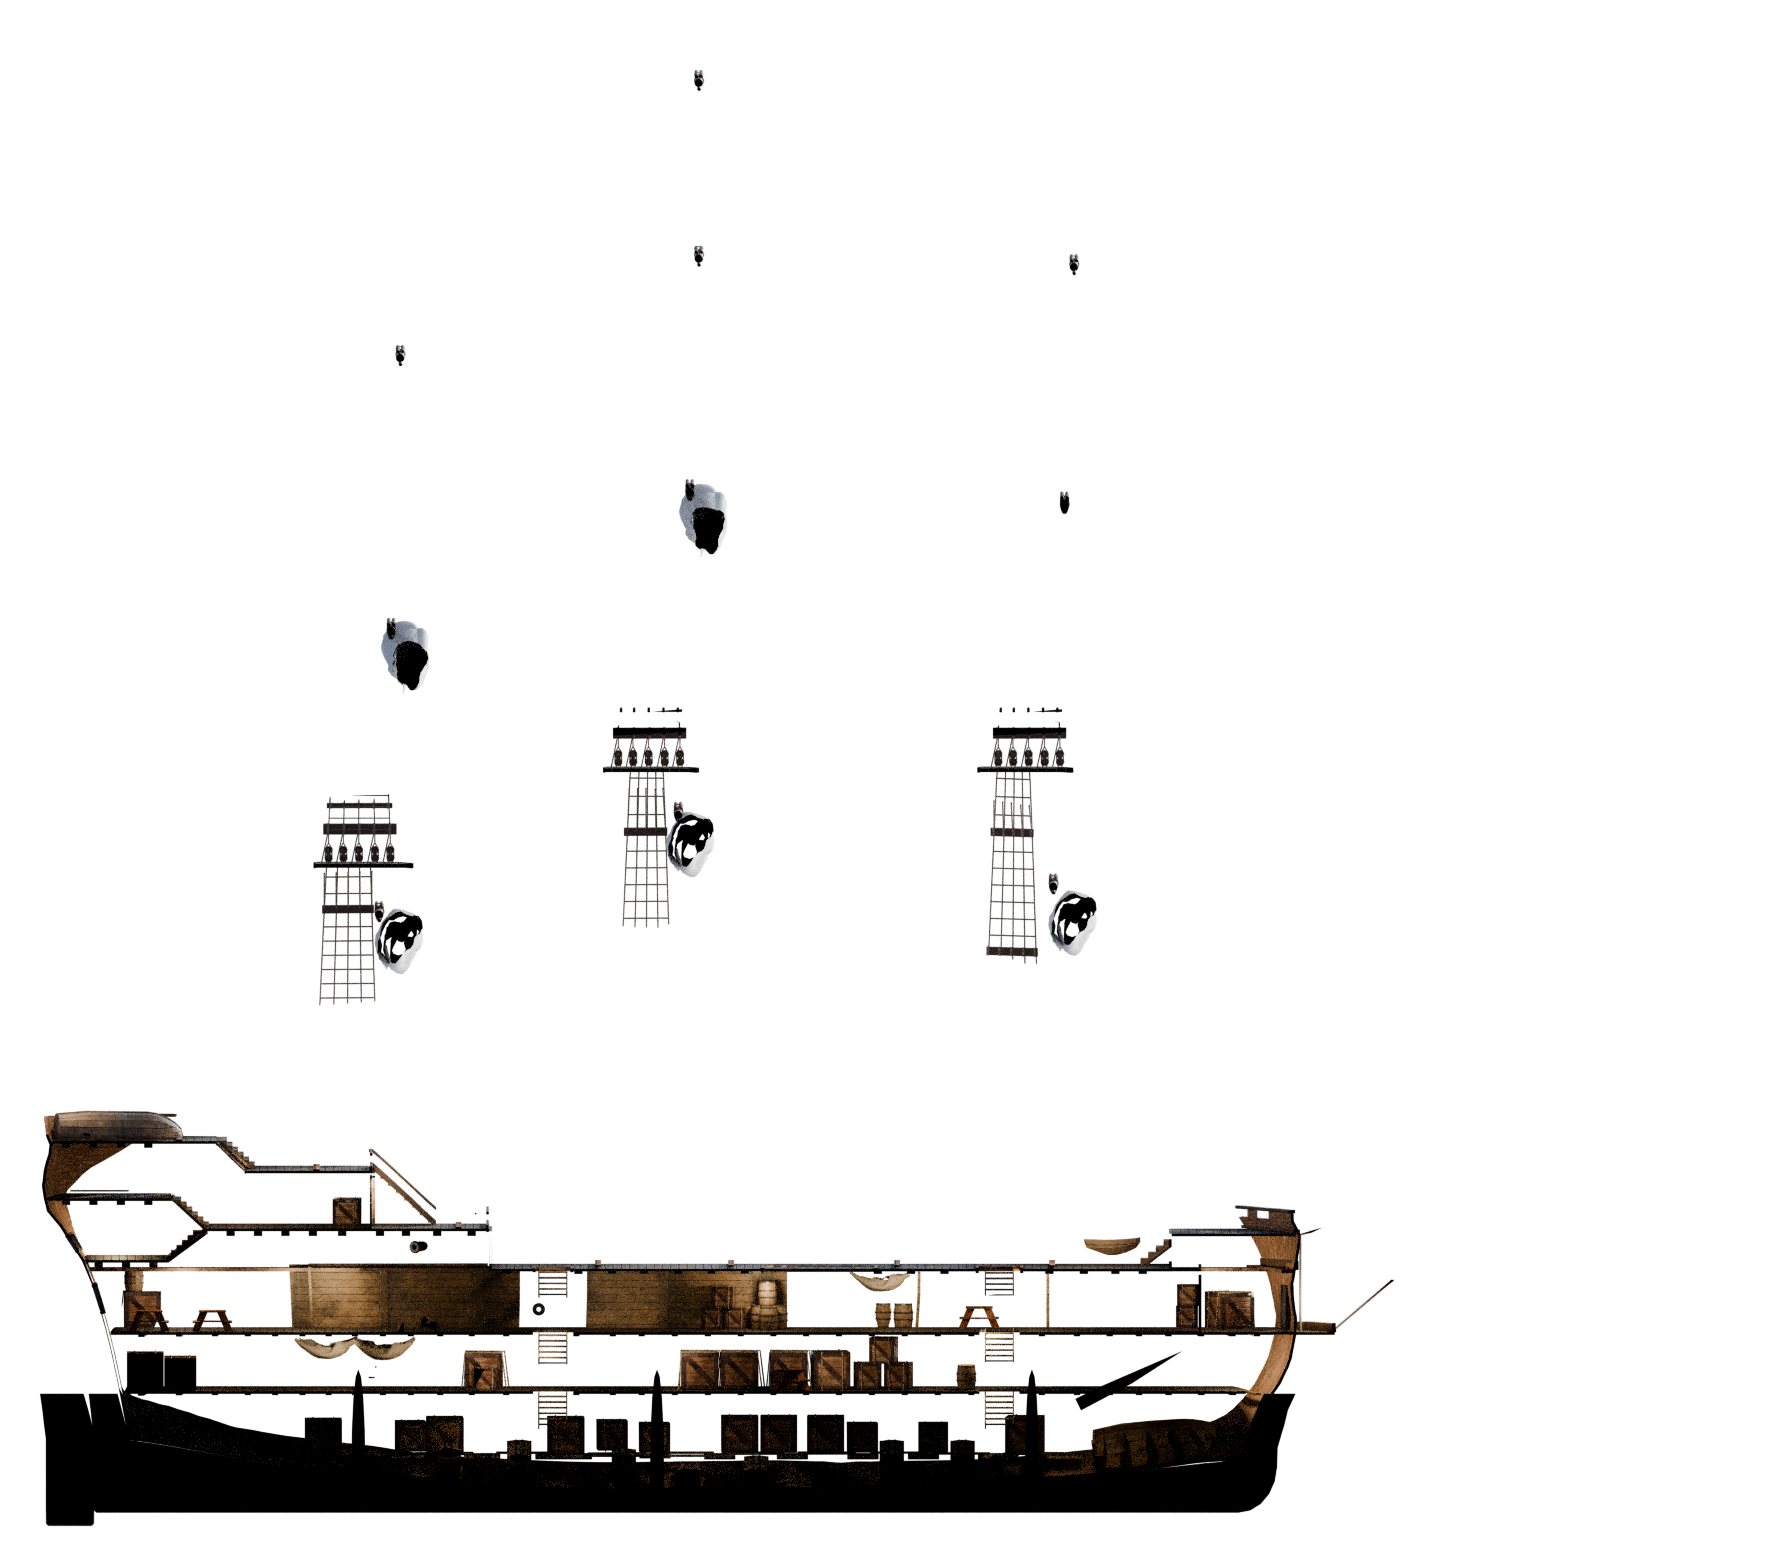
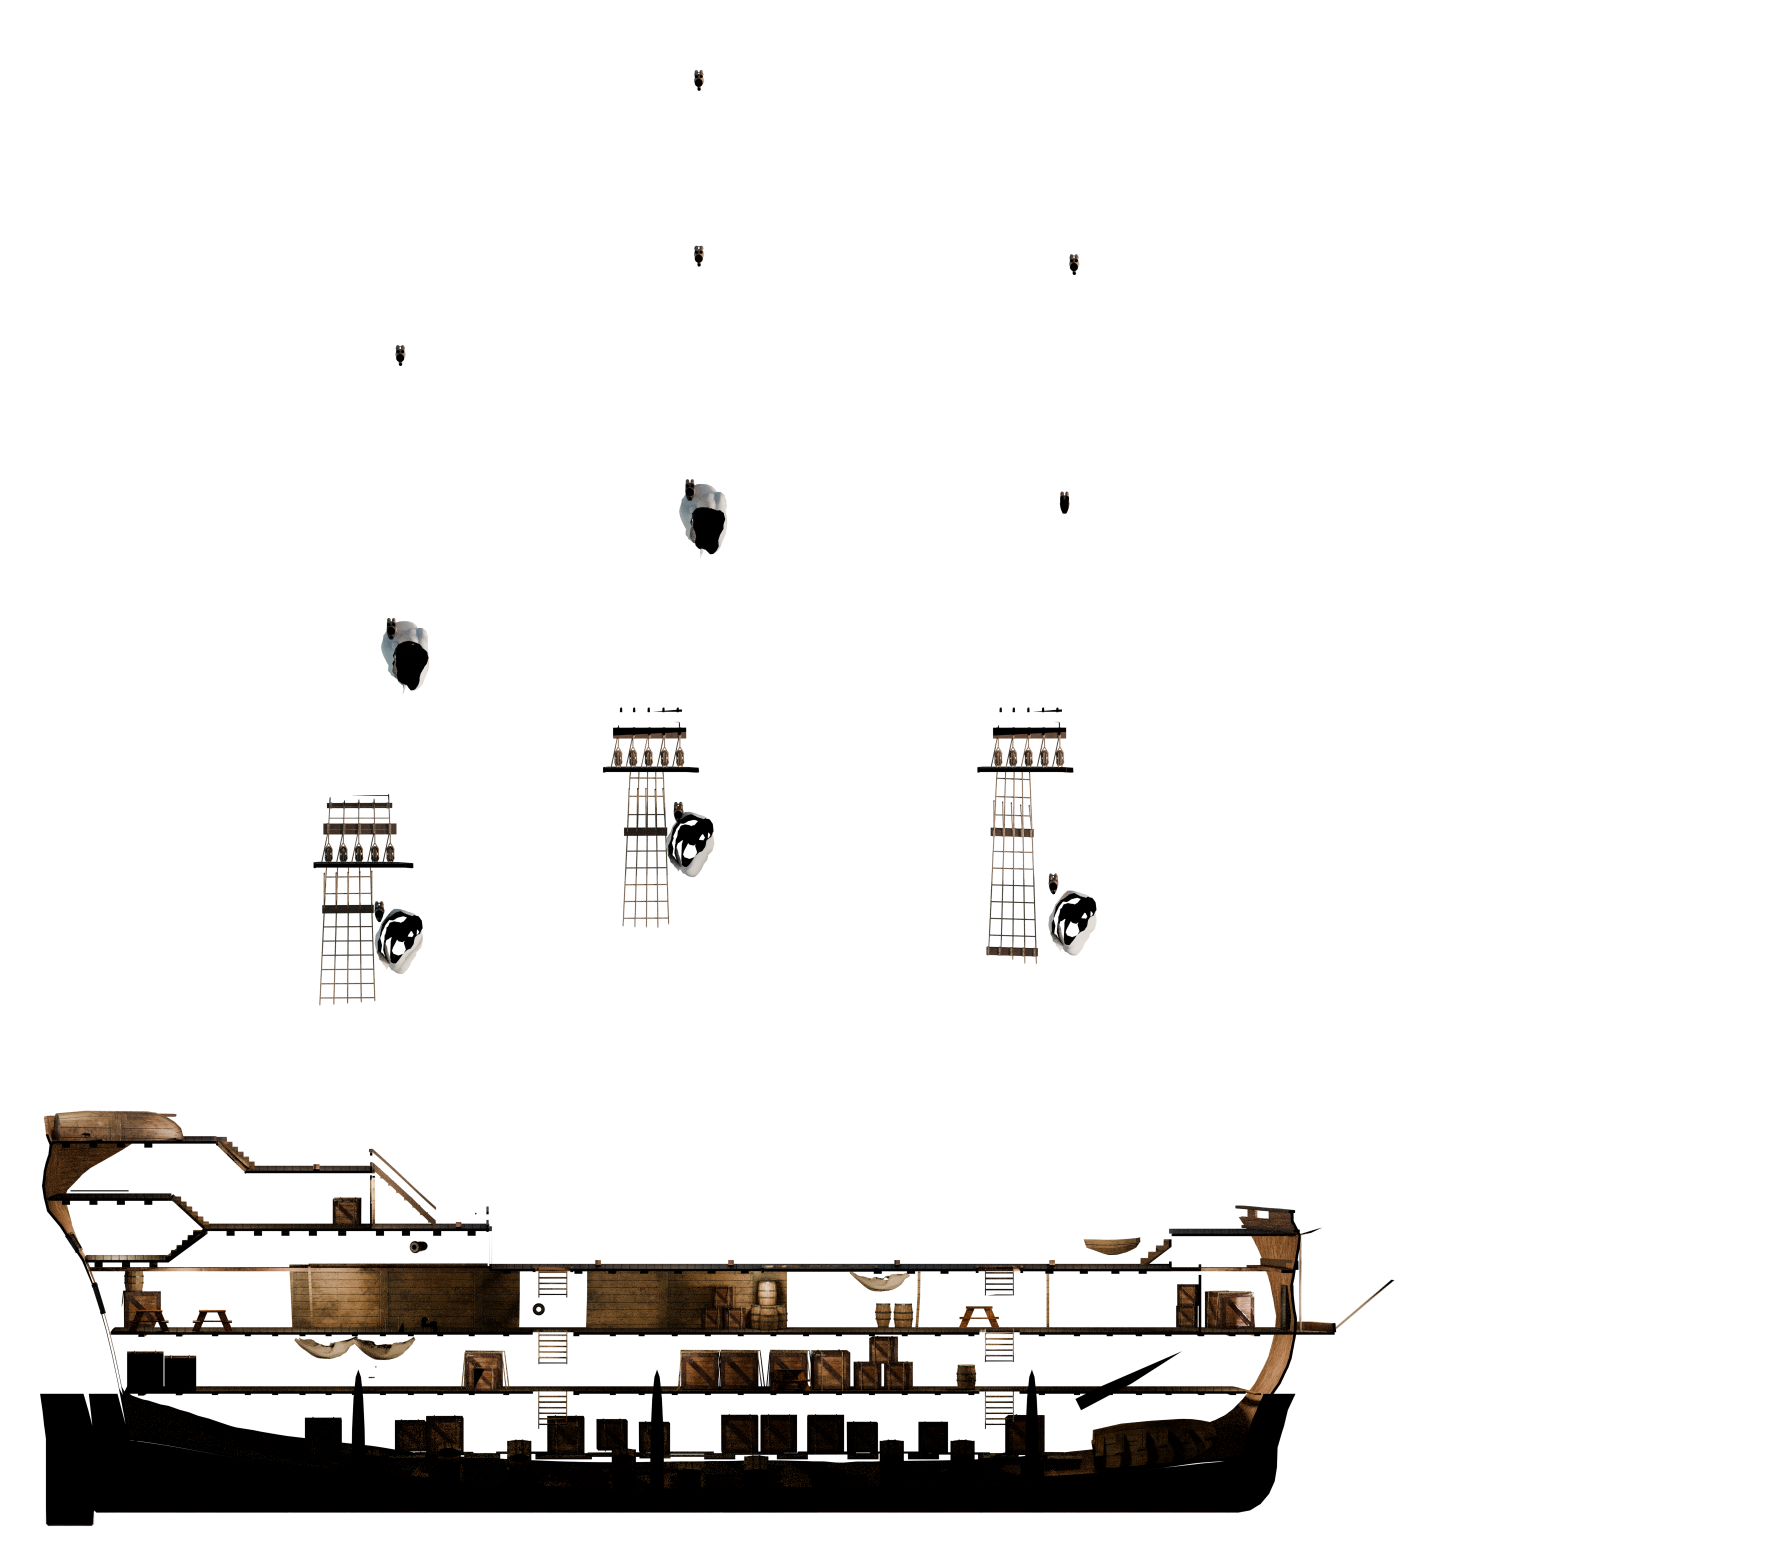
h1 version

diff --git a/src/game/stowaway/ship.ts b/src/game/stowaway/ship.ts
@@ -18,7 +18,7 @@ export class ShipPart extends CVE {
         opacity: number;
     }
     static offset: Vector2 = new Vector2(250, -100);
-    static shipScale: number = 1;
+    static shipScale: number = 1 * (new URLSearchParams(window.location.search).get('lq') === '1' ? 1 : 2);
     lastTheme: number = 0;
 
     constructor(url: string, parallax: number, private foreground: boolean = false, private roi: { x: number, y: number, width: number, height: number } = { x: 0, y: 0, width: 1783, height: 1541 }) {
@@ -44,7 +44,7 @@ export class ShipPart extends CVE {
         // });
         // console.log('day_' + url);
 
-        void $.loader.loadImage('ship/day_' + url).then((image) => {
+        void $.loader.loadImage('ship/day_' + url + ($.flags.hq ? '_hq' : '') + '.png').then((image) => {
             this.themes.push({
                 timeData: [[5, 0], [8, 1], [17, 1], [20, 0]],
                 image: image,
@@ -52,7 +52,7 @@ export class ShipPart extends CVE {
             });
             // this.renderFirst(this.themes[0]!);
         });
-        void $.loader.loadImage('ship/night_' + url).then((image) => {
+        void $.loader.loadImage('ship/night_' + url + ($.flags.hq ? '_hq' : '') + '.png').then((image) => {
             this.themes.push({
                 timeData: [[5, 1], [8, 0], [17, 0], [20, 1]],
                 image: image,
@@ -111,12 +111,12 @@ export class Ship {
         for (let i = 0; i < 7; i++) {
             const o = 0.97 + i * 0.015;
             new ShipPart(
-                i.toString().padStart(4, '0') + '.png', o,
+                i.toString().padStart(4, '0'), o,
                 (o) > 1.03,
                 { x: 0, y: 800, width: 1783, height: 1541 - 800 }
             )
             new ShipPart(
-                i.toString().padStart(4, '0') + '.png', o + 0.0001,
+                i.toString().padStart(4, '0'), o + 0.0001,
                 false,
                 { x: 0, y: 0, width: 1783, height: 800 }
             );

diff --git a/src/game/stowaway/game.ts b/src/game/stowaway/game.ts
@@ -23,7 +23,7 @@ import { LayerAsset } from "../util/layerAsset";
 import { Islands } from "./env/islands";
 import { Mover } from "./characters/mover";
 
-export type flags = 'open' | 'openAll' | 'debug' | 'night';
+export type flags = 'open' | 'openAll' | 'debug' | 'night' | 'hq';
 export type values = 'speed' | 'zoom';
 export class StowawayGame extends BaseGame<flags, values> {
     msPerDay: number = Infinity;
@@ -31,8 +31,9 @@ export class StowawayGame extends BaseGame<flags, values> {
     pc: PC;
 
     constructor(canvas: HTMLCanvasElement, tooltip: Ref<string, string>) {
-        super(canvas, { open: false, openAll: false, debug: false, night: false, }, { speed: 1, zoom: 5 });
+        super(canvas, { open: false, openAll: false, debug: false, night: false, hq: false }, { speed: 1, zoom: 5 });
 
+        $.flags.hq = new URLSearchParams(window.location.search).get('lq') === '1' ? false : true;
         $.tooltip = tooltip;
         $.game = this;
         $.routeManager = new RouteManager();

diff --git a/src/game/stowaway/characters/map/areaManager.ts b/src/game/stowaway/characters/map/areaManager.ts
@@ -69,8 +69,8 @@ export class AreaManager {
         ] as [number, number][][]).forEach((area) => {
             this.areas.push({
                 points: area.map(point => new Vector2(
-                    point[0] * ShipPart.shipScale * 0.935 - 15,
-                    point[1] * ShipPart.shipScale * 0.935 + 320
+                    (point[0] * 0.935 - 15) * ShipPart.shipScale,
+                    (point[1] * 0.935 + 320) * ShipPart.shipScale,
                 )),
                 opacity: 0,
                 active: false,

diff --git a/src/game/util/keyboard.ts b/src/game/util/keyboard.ts
@@ -17,7 +17,6 @@ export class Keyboard {
 
     constructor(canvas: Canvas) {
         document.body.addEventListener('keydown', (e: KeyboardEvent) => {
-            console.log(e.key.toLowerCase());
             this.keys[e.key.toLowerCase()] = 1;
         });
         document.body.addEventListener('keyup', (e: KeyboardEvent) => {
